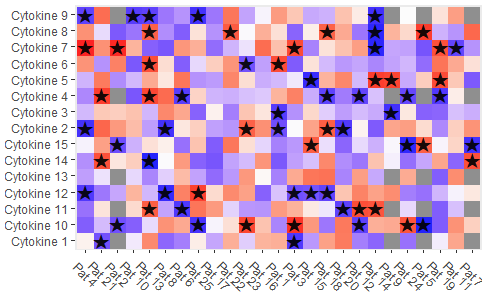
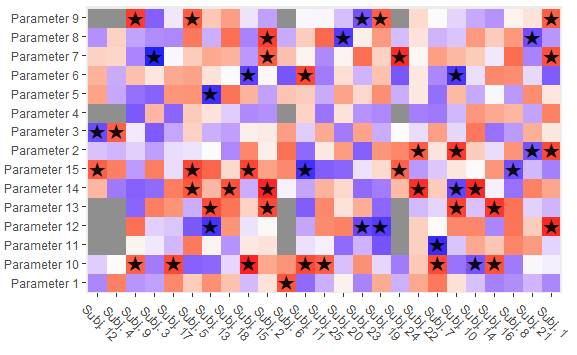
Updated post and images

diff --git a/_posts/2021-08-13-second_plot.md b/_posts/2021-08-13-second_plot.md
@@ -2,12 +2,12 @@
 layout: post
 title: "More advanced plots"
 subtitle: "Creating fancy figures"
-background: '/img/posts/second_plot/saskuva.jpg'
+background: '/img/posts/second_plot/plot_final.png'
 ---
 
-## In this blog post we are replicating the picture below originally created in SAS
+## In this blog post we are making the picture below.
 
-![Original SAS plot](/img/posts/second_plot/saskuva.jpg)<!-- -->
+![Original SAS plot](/img/posts/second_plot/plot_final.png)<!-- -->
 
 We will be using library called tidyverse in this tutorial. Tidyverse is a collection of 
 packages that share underlying design philosophy, grammar and data structures. Dplyr from
@@ -25,25 +25,25 @@ Lets first generate some data to work with that we can use in our figure.
 n_pat <- 25
 patient <- 1:n_pat
 censoring <- ceiling(rexp(n_pat, 1/30))
-tumour_shrink <- (rbeta(n_pat, 2, 2) - 0.5) * 100
+tumor_shrink <- (rbeta(n_pat, 2, 2) - 0.5) * 100
 
-n_cytokines <- 15
-cytokines <- paste("Cytokine", 1:n_cytokines)
+n_parameters <- 15
+parameters <- paste("Parameter", 1:n_parameters)
 
 response <- sample(c("PR", "NE", "CR", "PD", "SD"), size=n_pat,
                    replace = T)
 
 missing_combination <- sample(c(TRUE, FALSE), size=n_pat, replace=T, prob = c(0.1, 0.9))
 
-changes <- matrix(runif(n_pat * n_cytokines, 1, 100), nrow=n_pat, ncol=n_cytokines)
+changes <- matrix(runif(n_pat * n_parameters, 1, 100), nrow=n_pat, ncol=n_parameters)
 changes[sample(1:dim(changes)[1], 4, replace = FALSE), sample(1:dim(changes)[2], 5, replace = F)] <- NA
 
-df <- data.frame(patient, censoring, tumour_shrink, changes, missing_combination)
-colnames(df) <- c("patient", "censoring", "tumour_shrink", cytokines, "missing_combination")
+df <- data.frame(patient, censoring, tumor_shrink, changes, missing_combination)
+colnames(df) <- c("patient", "censoring", "tumor_shrink", parameters, "missing_combination")
 head(df)
 ```
 
-    ##    patient censoring tumour_shrink Cytokine 1 Cytokine 2 Cytokine 3 Cytokine 4  Cytokine 5 Cytokine 6 Cytokine 7 Cytokine 8 Cytokine 9 Cytokine 10  Cytokine 11 Cytokine 12 Cytokine 13 Cytokine 14 Cytokine 15 
+    ##    patient censoring tumor_shrink Parameter 1 Parameter 2 Parameter 3 Parameter 4  Parameter 5 Parameter 6 Parameter 7 Parameter 8 Parameter 9 Parameter 10  Parameter 11 Parameter 12 Parameter 13 Parameter 14 Parameter 15 
     ## 1        1        50   -33.5020150  76.692716  12.905816  51.320504    6.95165    3.702113  80.529008  52.739191  35.523220  20.034390   98.995443     52.34731   89.944140   22.969047   86.286218   37.865428
     ## 2        2        18   -34.3932674  71.841917  94.354270   4.175872   40.83416   78.104306  95.018387  86.157191  44.547260  66.223263    4.477640     19.13054   57.357747   66.792806   57.220612   71.090477
     ## 3        3        19    25.5744672         NA         NA  75.877590   51.54885   59.516219  47.779858  22.964046  20.790171  27.846610   46.499506           NA   42.132381   26.674702          NA          NA
@@ -60,7 +60,7 @@ head(df)
 Here we have generated a dataframe containing example patients, how their
 tumor size has changed from start of the study until the end of study
 and time after they were censored from the study (quit, died, etc). On
-top of that we also have measurements on different cytokine levels.
+top of that we also have measurements on different anonymized parameters noted by Parameter [number].
 Note that data has missing values indicated by NA. In the dataframe 
 there is a column called missing\_combination which 
 indicates that there was problems while gathering the data. TRUE values indicates 
@@ -81,7 +81,7 @@ p1 <- df %>%
     response == "PD" ~ "red",
     response == "SD" ~ "yellow"
   )) %>% 
-  arrange(tumour_shrink) %>% 
+  arrange(tumor_shrink) %>% 
   mutate(patient = factor(patient, levels=patient)) %>% 
   ggplot(aes(x=patient, y=1, fill=color)) +
   geom_raster() +
@@ -124,7 +124,7 @@ Onto the next plot!
 
 ``` r
 p2 <- df %>%
-  arrange(tumour_shrink) %>% 
+  arrange(tumor_shrink) %>% 
   mutate(patient = factor(patient, levels=patient)) %>% 
   mutate(color = ifelse(missing_combination, "white", "gray")) %>% 
   ggplot(aes(x=factor(patient), y=1, fill=color)) +
@@ -148,17 +148,17 @@ p2
 This plot is again similar to the previous two and the code seems self explatory 
 if you understood how to make the first two. Main differences in this section 
 are modifying the scale\_fill\_gradient() so we get a nice gradient of colors 
-from minimum of tumour\_shrink variable to the maximum value.
+from minimum of tumor\_shrink variable to the maximum value.
 
 
 ``` r
 p3 <- df %>% 
-  arrange(tumour_shrink) %>% 
+  arrange(tumor_shrink) %>% 
   mutate(patient = factor(patient, levels=patient)) %>% 
-  ggplot(aes(x=patient, y=1, fill=tumour_shrink)) +
+  ggplot(aes(x=patient, y=1, fill=tumor_shrink)) +
   geom_raster(alpha=0.8) +
   geom_tile(color="black", size=1) +
-  geom_text(aes(label=formatC(tumour_shrink, 0, format="f")), 
+  geom_text(aes(label=formatC(tumor_shrink, 0, format="f")), 
             size=3) +
   theme(axis.text = element_blank(),
         axis.title = element_blank(), 
@@ -167,7 +167,7 @@ p3 <- df %>%
         plot.margin = unit(c(-5, 0, 0, 0), "pt"),
         legend.position = "none") +
   scale_fill_gradient(low="green", high="red") +
-  labs(y="Tumour shrink")+
+  labs(y="Tumor shrink")+
   coord_fixed()
 p3
 ```
@@ -193,27 +193,25 @@ normalize <- function(x, na.rm = TRUE) {
 ```
 
 In the next block we will pivot the dataframe into long format and apply
-our normalization function to all not NaN values. We are also creating a
+our normalization function to all non NaN values. We are also creating a
 column called pat which is factor(patient) but with numerical columns.
 This was needed so we can sort the values in the last plot with the
-tumour\_shrink values. To mimic some squares flagged with stars in the
-original picture I decided to add column called “important” which we
-flag with star. It could be anything we want but I decided that I would
-flag values that had big absolute scaled values.
+tumor\_shrink values. To add more things to the plot I decided to add markers 
+to the plot that could indicate some importance. For this exercise I have flagged cells that have absolute scaled value higher than 70. 
 
 ``` r
 cdf <- df %>% 
-  pivot_longer(all_of(cytokines)) %>% 
+  pivot_longer(all_of(parameters)) %>% 
   mutate(scaled_val = normalize(value)) %>% 
   mutate(important = ifelse((abs(scaled_val) > 85), TRUE, FALSE)) %>% 
   replace_na(list(important = FALSE)) %>% 
-  arrange(tumour_shrink) %>% 
+  arrange(tumor_shrink) %>% 
   mutate(pat=factor(patient, levels = rev(unique(patient)), ordered=TRUE))
 ```
 
 With most of the work done with creating the dataframe that we want to
 plot it is pretty easy to create the plot from that. The plot itself is
-similar to one created in the previous post.
+similar to one created in the [previous post](https://aastat-fi.github.io/2020/05/09/advanced_plot.html).
 
 ``` r
 p4 <- cdf %>% 
@@ -222,7 +220,7 @@ p4 <- cdf %>%
   geom_text(data=filter(cdf, important), aes(label="★"), colour="black",
             size=8, vjust=0.2, alpha=0.9) +
   scale_fill_gradient2(low="blue", mid="white", high="red", guide="none") +
-  scale_x_discrete(labels = paste0("Pat ", unique(cdf$patient))) +
+  scale_x_discrete(labels = paste0("Subj ", unique(cdf$patient))) +
   theme(axis.title = element_blank(),
         panel.grid = element_blank(),
         axis.text.x = element_text(angle=-45, hjust=0.3),
@@ -233,7 +231,7 @@ p4
 ![Fourth plot](/img/posts/second_plot/plot4.png)<!-- -->
 
 Now all we need to do is to combine all the plots together. This time
-there is no need to use cowplot as we can use a bit simpler methods from
+there is no need to use cowplot as we can use a bit simpler method from
 library called Patchwork. Patchwork is a brilliant library that allows
 joining plot using arithmetic operations. You may have been wondering
 why we need to specify the plot margins. The three plots on top of the
@@ -247,14 +245,8 @@ p1 / p2 / p3 / p4
 
 ![Final plot](/img/posts/second_plot/plot_final.png)<!-- -->
 
-This mimics the original image pretty good. We also could have made all
-three top plots in a single plotting function call but I think the ideas are more
-easy to generalize to other plots and figures if we do them one by one.
-In this approach we needed to play a a lot with the white space around the plot and
-plot arrangement functions to create tight grouping of plots. Each
-approach has its pros and cons.
 
-Unfortunately for this post we can't publish the original SAS code.
+
 
 Mikael Roto
 14/8/2021
